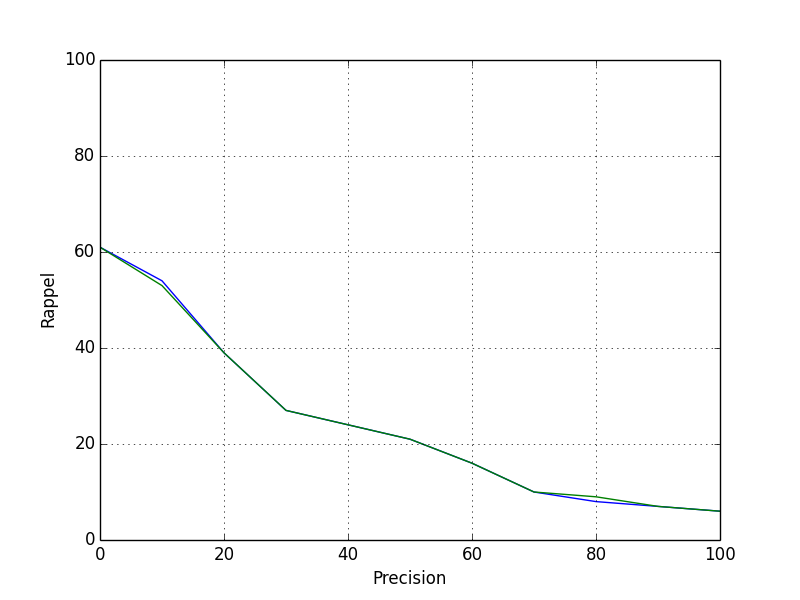
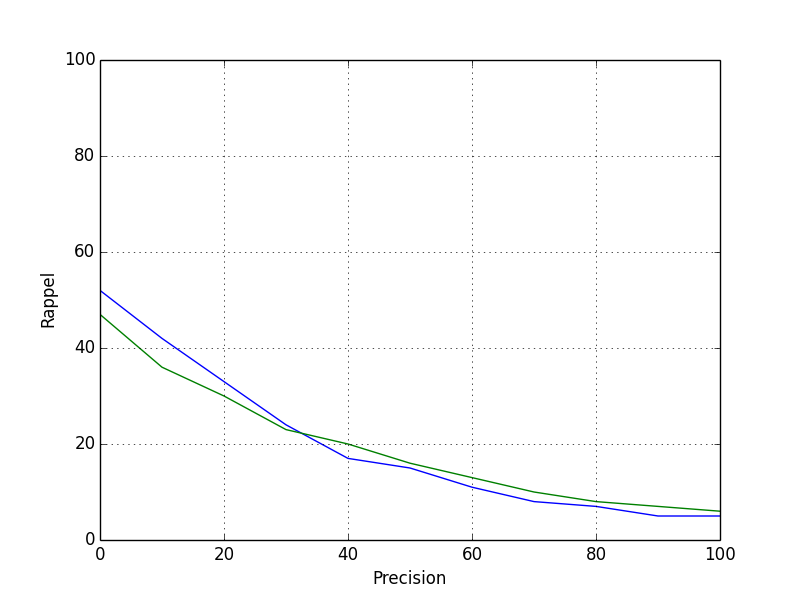
correct tf_idf and simple ponderation

diff --git a/Vect_query.py b/Vect_query.py
@@ -38,52 +38,72 @@ class Vect_query(Query):
 
     def execute_query(self, ponderation):
         """ execute the query search and return results """
-        results_temp = defaultdict(float)
-        doc_list = defaultdict(dict)
+        res_temp = defaultdict(int)
+
+        # computes a ponderated vector for query
+        query_vect = defaultdict(dict)
+        for w in self.indexed_query:
+            if w in self.my_index.reversed_index:
+                max_tf = max(self.indexed_query.iteritems(), key=operator.itemgetter(1))[1]
+                df = self.my_index.reversed_index[w]['df']
+                tf = self.indexed_query[w]
+                query_vect[w] = self.ponderation(tf, df, max_tf, ponderation)
+
+        # computes a ponderated vector and computes cosinus
+        doc_vect = defaultdict(dict)
         for word in self.indexed_query:
             if word in self.my_index.reversed_index:
-                for doc in self.my_index.reversed_index[word]:
-                    if doc != 'df':
+                for doc_id in self.my_index.reversed_index[word]:
+                    if doc_id != 'df':
+                        max_tf = self.max_tf(doc_id)
                         df = self.my_index.reversed_index[word]['df']
-                        tf = self.my_index.reversed_index[word][doc]
-                        doc_list[doc][word] = self.ponderation(tf, df, ponderation)
-        for doc in doc_list:
-            doc_list[doc]['cos'] = self.cosinus(self.indexed_query, doc_list[doc], doc, 'tf_idf')
-        return doc_list
+                        tf = self.my_index.reversed_index[word][doc_id]
+                        doc_vect[doc_id][word] = self.ponderation(tf, df, max_tf, ponderation)
+        for doc_id in doc_vect:
+            cos = self.cosinus(query_vect, doc_vect[doc_id], doc_id, ponderation)
+            res_temp[doc_id] = int(100*cos)
+        return res_temp
 
-    def ponderation(self, tf, df, pond_type):
+    def max_tf(self, doc_id):
+        """ computes the max tf amongst words in doc_id """
+        return max(self.my_index.index[doc_id].iteritems(), key=operator.itemgetter(1))[1]
+
+    def ponderation(self, tf, df, max_tf, pond_type):
         """ 
-            return ponderation calculation
+            returns ponderation calculation
             either 'w' or 'tf-idf'
         """
         if pond_type == 'tf_idf':
             return self.tf_log(tf)*self.idf(df)
         elif pond_type == 'w':
-            max_w = max(self.my_index.index.iteritems(), key=operator.itemgetter(1))[0]
-            return float(tf)/float(max_w)
+            return float(tf)/float(max_tf)
 
     def cosinus(self, indexed_query, indexed_doc, doc_id, pond_type):
-        """ compute cosinus calculation """
+        """ computes cosinus calculation """
         p = 0
-        norm_q = 0
+        norm_query = 0
         for w, w_freq in indexed_query.iteritems():
             if w in indexed_doc.keys():
                 p += float(w_freq)*float(indexed_doc[w])
-            norm_q += int(w_freq) ^ 2
+            norm_query += pow(w_freq, 2)
         if p != 0:
-            norm_q = sqrt(norm_q)
-            return float(float(p)/(norm_q*self.norm(doc_id, pond_type)))
+            norm_query = sqrt(norm_query)
+            return float(float(p)/(norm_query*self.norm_doc_vect(doc_id, pond_type)))
         else:
             return 0
 
-    def norm(self, doc_id, pond_type):
-        """ compute norm """
+    def norm_doc_vect(self, doc_id, pond_type):
+        """ computes norm """
         n = 0
         for w, freq in self.my_index.index[doc_id].iteritems():
             if pond_type == 'tf_idf':
-                n += freq ^ 2
+                df = self.my_index.reversed_index[w]['df']
+                tf = freq
+                tf_idf = self.tf_log(tf)*self.idf(df)
+                n += pow(tf_idf, 2)
             elif pond_type == 'w':
-                n += freq ^ 2
+                w = freq/self.max_tf(doc_id)
+                n += pow(w, 2)
         return sqrt(float(n))
 
     def tf_log(self, tf):
@@ -93,4 +113,4 @@ class Vect_query(Query):
             return 0
 
     def idf(self, df):
-        return log10(float(int(self.my_index.N)/float(df)))
+        return log10(float(int(self.my_index.N))/float(df))

diff --git a/main.py b/main.py
@@ -97,7 +97,6 @@ def main_loop():
     cacm_index = Index()
     q_set = Query_set()
 
-
     # returning relevant infos : index size, loading time...
     # ------------------------------------------------------
     tps_index = time.clock()
@@ -112,7 +111,7 @@ def main_loop():
     while input_var != '0':
         input_var = raw_input('What do you want to do now ? ' + '\n'
             '\n' + '1: Search a document by docID'
-            '\n' + '2: Look for documents a word belongs to'
+            '\n' + '2: Search for document where a word occurs'
             '\n' + '3: Execute a boolean query'
             '\n' + '4: Execute a Vectorial query (Tf-idf)'
             '\n' + '5: Execute a Vectorial query (simple vectorial model)'
@@ -121,7 +120,7 @@ def main_loop():
             '\n' + '8: Plot Rappel-precision chart'
             '\n' + 'ENTER: Quitter'
             '\n' + '------------------------'+'\n'
-            )
+            '|> ')
         if input_var in ['1', '2', '3', '4', '5', '6', '7', '8']:
             execute_query(cacm_index, q_set, input_var)
         else:

diff --git a/Index.py b/Index.py
@@ -64,10 +64,10 @@ class Index:
             word = word.lower()
             if not self.compare(word):
                 # populate doc_index
-                self.populate_index(self.reversed_index, word, doc_id)
-                self.populate_index(self.index, doc_id, word)
+                self.populate_index(self.reversed_index, word, doc_id, True)
+                self.populate_index(self.index, doc_id, word, False)
 
-    def populate_index(self, index, k1, k2):
+    def populate_index(self, index, k1, k2, compute_df):
         """ 
             generic function to create index.
             Index and reversed index have the same structure
@@ -75,7 +75,8 @@ class Index:
         if k1 not in index:
             index[k1] = defaultdict(int)
         index[k1][k2] += 1
-        index[k1]['df'] += 1
+        if compute_df:
+            index[k1]['df'] += 1
 
     def compare(self, element):
         """ 
